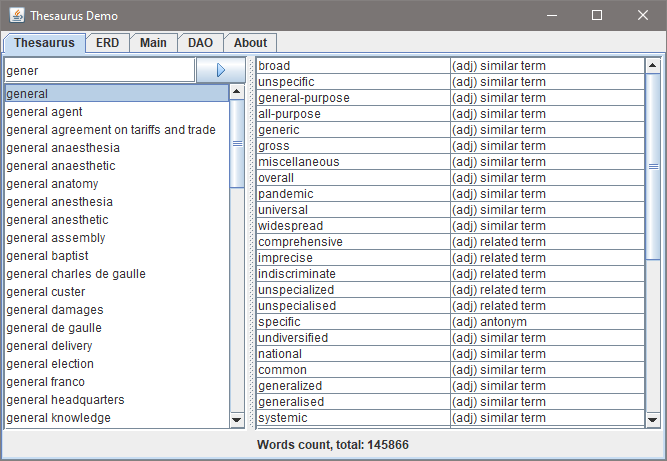
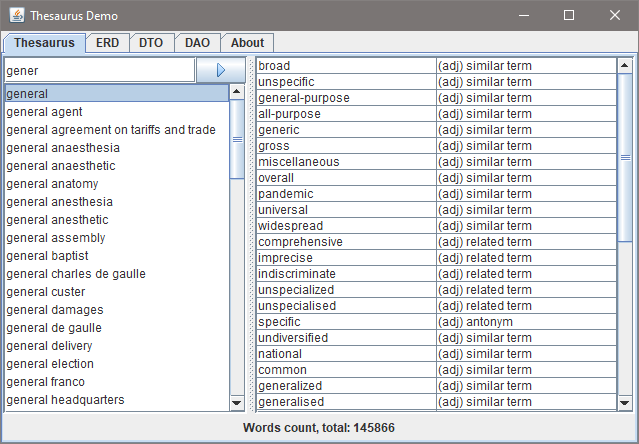
adapted for sdm 1.198

diff --git a/src/sdm/thesaurus/ThesaurusApp.java b/src/sdm/thesaurus/ThesaurusApp.java
@@ -78,7 +78,7 @@ public class ThesaurusApp {
         scrollPane_erd.setViewportView(label_erd);
 
         final JScrollPane scrollPane_main = new JScrollPane();
-        tabbedPane.addTab("Main", null, scrollPane_main, null);
+        tabbedPane.addTab("DTO", null, scrollPane_main, null);
 
         final JTextPane textPane_DTO = new JTextPane();
         scrollPane_main.setViewportView(textPane_DTO);
